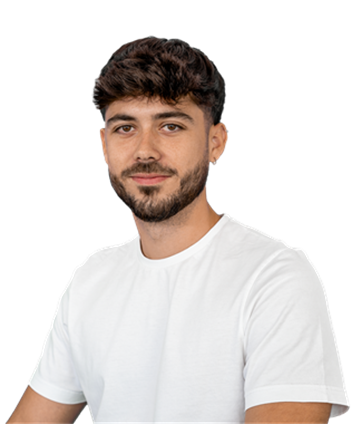
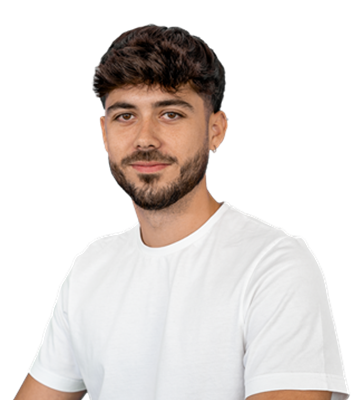
Fix Gmail shift and photo crop: remove height/overflow from outer table
- Outer <table>: remove height, max-height, overflow:hidden — these caused
  Gmail to clip the background visually but render cells below it
- Both photo imgs: explicit width=180 height=200 (2x retina match)
- Photos center-cropped to exactly 360x400px (9:10 ratio) — no distortion

diff --git a/cleardent/personal/juan-antonio-perez.html b/cleardent/personal/juan-antonio-perez.html
@@ -140,16 +140,16 @@
     <!--[if gte mso 9]> <table role="presentation" border="0" cellspacing="0" cellpadding="0" width="560" style="width:560px"> <tr> <td> <v:image xmlns:v="urn:schemas-microsoft-com:vml" fill="true" alt="background-image" stroke="false" style="border: 0; display: inline-block; width: 420.00pt; height: 150.00pt" src="https://raw.githubusercontent.com/MariaSanchezFernandez/FirmasCorreo/main/assets/cleardent/personal/fondo.png"/> <v:rect alt="background-image-rectangle" fill="true" stroke="false" style="border: 0; display: inline-block; position: absolute; width: 420.00pt; height:150.00pt"> <v:fill opacity="0%" color="#FFFFFF"/> <v:textbox inset="0,0,0,0"> <div> <div style="font-size: 0;"> <![endif]-->
     <table
       background="https://raw.githubusercontent.com/MariaSanchezFernandez/FirmasCorreo/main/assets/cleardent/personal/fondo.png"
-      cellpadding="0" cellspacing="0" border="0" role="presentation" width="560" height="200"
-      style="background:url('https://raw.githubusercontent.com/MariaSanchezFernandez/FirmasCorreo/main/assets/cleardent/personal/fondo.png') 50% / 100% no-repeat;width:560px;height:200px;max-height:200px;border-spacing:0;font-family:Verdana, Tahoma;min-width:560px;overflow:hidden">
+      cellpadding="0" cellspacing="0" border="0" role="presentation" width="560"
+      style="background:url('https://raw.githubusercontent.com/MariaSanchezFernandez/FirmasCorreo/main/assets/cleardent/personal/fondo.png') 50% / 100% no-repeat;width:560px;border-spacing:0;font-family:Verdana, Tahoma;min-width:560px">
       <tr>
         <!-- Foto Juan Antonio pegada a la izquierda -->
         <!--[if mso]><td valign="top"><table role="presentation" border="0" cellspacing="0" cellpadding="0"><tr><![endif]-->
         <td valign="top" width="180" style="width:180px;height:200px;max-height:200px;overflow:hidden;vertical-align:top;padding:0;">
           <img
             src="https://raw.githubusercontent.com/MariaSanchezFernandez/FirmasCorreo/main/assets/cleardent/personal/foto-juan-antonio-perez.png"
-            alt="Juan Antonio Pérez" width="180"
-            style="border:none;display:block;width:100%;height:auto;" />
+            alt="Juan Antonio Pérez" width="180" height="200"
+            style="border:none;display:block;width:180px;height:200px;" />
         </td>
         <!--[if mso]></tr></table></td><![endif]-->
         <!-- Texto -->

diff --git a/cleardent/personal/maria-sanchez-fernandez.html b/cleardent/personal/maria-sanchez-fernandez.html
@@ -140,15 +140,15 @@
     <!--[if gte mso 9]> <table role="presentation" border="0" cellspacing="0" cellpadding="0" width="560" style="width:560px"> <tr> <td> <v:image xmlns:v="urn:schemas-microsoft-com:vml" fill="true" alt="background-image" stroke="false" style="border: 0; display: inline-block; width: 420.00pt; height: 150.00pt" src="https://raw.githubusercontent.com/MariaSanchezFernandez/FirmasCorreo/main/assets/cleardent/personal/fondo.png"/> <v:rect alt="background-image-rectangle" fill="true" stroke="false" style="border: 0; display: inline-block; position: absolute; width: 420.00pt; height:150.00pt"> <v:fill opacity="0%" color="#FFFFFF"/> <v:textbox inset="0,0,0,0"> <div> <div style="font-size: 0;"> <![endif]-->
     <table
       background="https://raw.githubusercontent.com/MariaSanchezFernandez/FirmasCorreo/main/assets/cleardent/personal/fondo.png"
-      cellpadding="0" cellspacing="0" border="0" role="presentation" width="560" height="200"
-      style="background:url('https://raw.githubusercontent.com/MariaSanchezFernandez/FirmasCorreo/main/assets/cleardent/personal/fondo.png') 50% / 100% no-repeat;width:560px;height:200px;max-height:200px;border-spacing:0;font-family:Verdana, Tahoma;min-width:560px;overflow:hidden">
+      cellpadding="0" cellspacing="0" border="0" role="presentation" width="560"
+      style="background:url('https://raw.githubusercontent.com/MariaSanchezFernandez/FirmasCorreo/main/assets/cleardent/personal/fondo.png') 50% / 100% no-repeat;width:560px;border-spacing:0;font-family:Verdana, Tahoma;min-width:560px">
       <tr>
         <!--[if mso]><td valign="top"><table role="presentation" border="0" cellspacing="0" cellpadding="0"><tr><![endif]-->
         <td valign="top" width="180" style="width:180px;height:200px;max-height:200px;overflow:hidden;vertical-align:top;padding:0;">
           <img
             src="https://raw.githubusercontent.com/MariaSanchezFernandez/FirmasCorreo/main/assets/cleardent/personal/foto-maria-sanchez-fernandez.png"
-            alt="María Sánchez Fernández" width="180"
-            style="border:none;display:block;width:100%;height:auto;" />
+            alt="María Sánchez Fernández" width="180" height="200"
+            style="border:none;display:block;width:180px;height:200px;" />
         </td>
         <!--[if mso]></tr></table></td><![endif]-->
         <!--[if mso]><td valign="top"><table role="presentation" border="0" cellspacing="0" cellpadding="0"><tr><![endif]-->